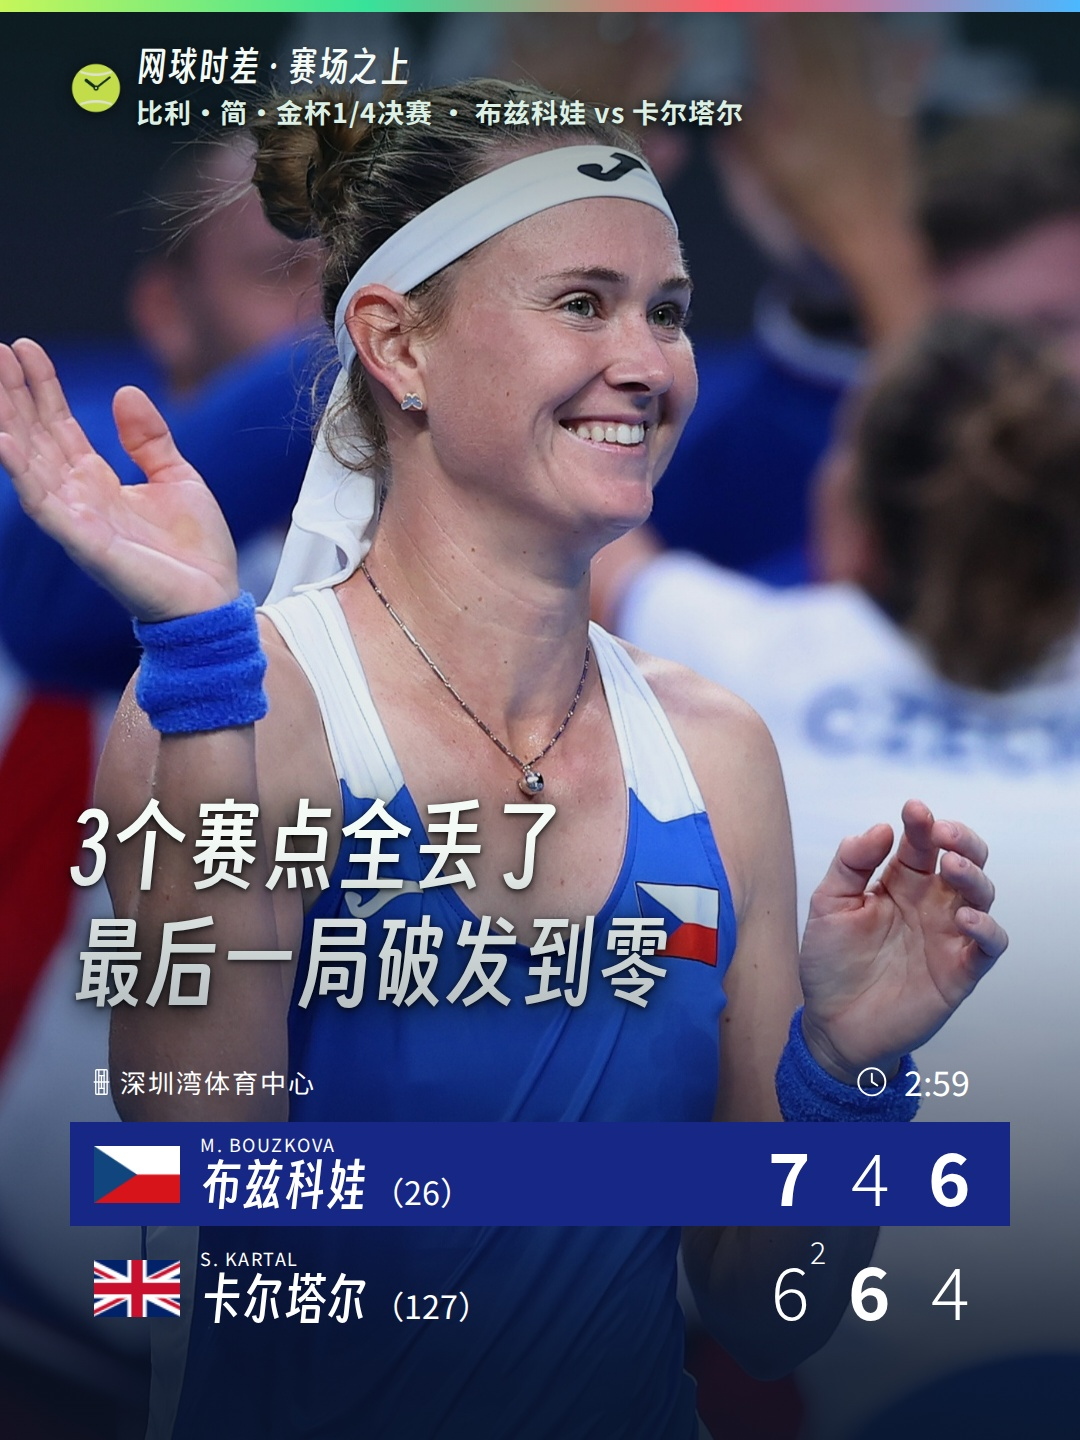
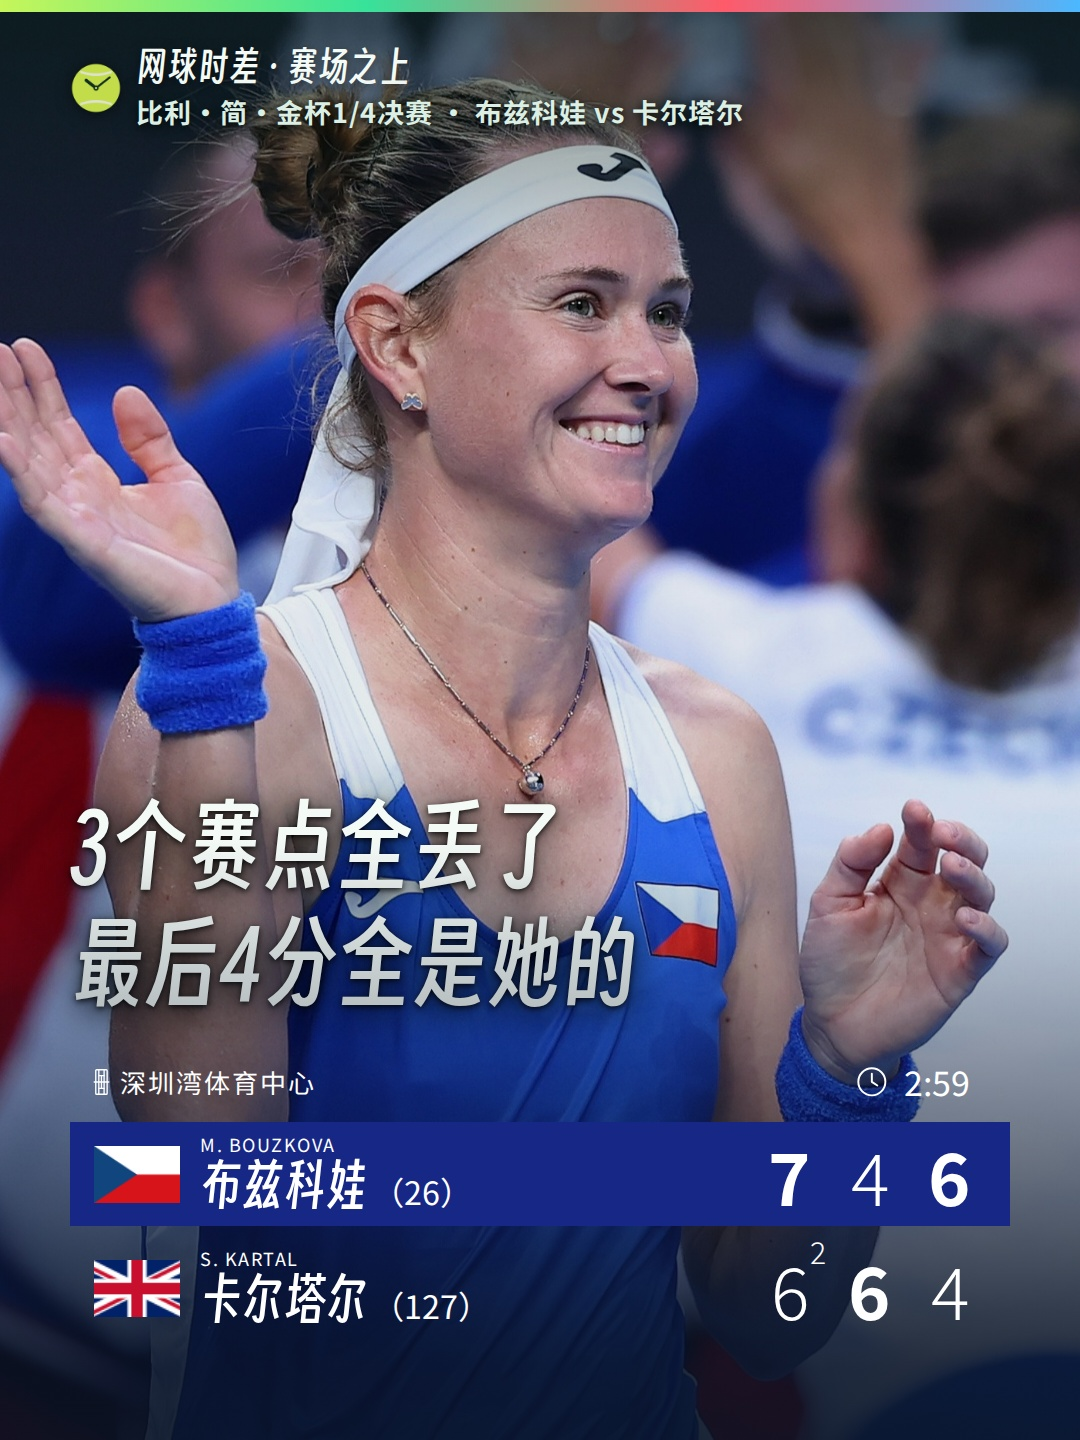
reel: 钩子第二行换掉行话，并落定「重渲默认重推」 (#994)
1) 钩子：「最后一局破发到零」→「最后4分全是她的」

账号所有者直接问「最后一局破发到 0 是啥意思」。这是能拿到的最硬的判据——
「破发到零」是两个术语叠在一起（破发 ＋ love game），连这个号的所有者都要停下来
问一句，刷到的人只会划走。换成的说法里「4 分」谁都知道是什么、「全是她的」谁都
知道结果是什么，而且和第一行「3个赛点全丢了」的数字互相咬。

事实同一件：被追成 5-4 之后，卡尔塔尔的发球局她连拿 4 分结束比赛（第 ⑬ 段旁白
「十五比零、三十比零、四十比零，比赛结束」，官网原文 break Kartal to love），
那 4 分正好是全场最后 4 分。

CLAUDE.md 加了通用那条：钩子里不许出现要解释的术语。和「love game 不要字面直译」
「ACE 不写中文」不同——那两条管译法，这条管要不要用这个词。自查办法：念给不看
网球的人听，他要反问就重写。

2) 「不用问我，自己决定，一般都要重推」

CLAUDE.md 那一节原来写着「是口径选择，没有替账号所有者定」——他表态了，前半句
作废。重渲一条已发的片子默认重推，不问；同日撞上 pushed.json 那道闸就把标记删掉
再合并（本次就这么做的）。闸留着，它防的是无意重推。

3) 对手译名维持「卡尔塔尔」

两张译名表一致（players.py:336 ＋ player_names_top500.json rank 122），而
「卡塔尔」在仓库里全部 8 处都是国家或赛事。按表走，人名不手打。

4) Release tag 挂账重量了一次

render 是整份重写 render.json 的，上一轮加的 _release_tag_note 被这趟重渲冲掉，
判据当场逮到。Range: bytes=0-1 → 总长 64073292，tag 上是 output/2026-09-23/
那一份。这句「每重渲一趟就会被冲掉」写进注解本身了。

质检 0 项不合格（run 35760387665）；全量 3366 passed。

Claude-Session: https://claude.ai/code/session_01A9qFiUXeAU5dtPbc1W5A2e

Changed region(s): [[0.1833, 0.625, 0.6417, 0.7188]]

diff --git a/CLAUDE.md b/CLAUDE.md
@@ -732,6 +732,29 @@ CLAUDE.md，省下一次重查；那是它该待的地方。（`wawrinka-wildcar
 它给这场球一个影子。换完的钩子和第 ② 段旁白都撤掉了总分差，小红书正文只按关键分的
 口径提一句。
 
+#### ⭐⭐ 2026-09-22：**钩子里不许出现要解释的术语**——判据是账号所有者看不懂
+
+`bouzkova-kartal` 的第二行原来写的是「最后一局破发到零」，他直接问：
+「**最后一局破发到 0 是啥意思**」。
+
+**这是能拿到的最硬的判据。** 「破发到零」是两个术语叠在一起（破发 ＋ love game），
+而**连这个号的所有者都要停下来问一句，刷到的人只会划走**——封面那一屏的全部价值
+就是一眼读懂，读不懂等于这一屏没有。换成「**最后4分全是她的**」：「4 分」谁都知道
+是什么，「全是她的」谁都知道结果是什么，而且和第一行「3个赛点全丢了」的数字互相咬
+（3 个没兑现 ↔ 最后 4 分全拿），反转一眼看得出。
+
+| | |
+|---|---|
+| ❌ 钩子里 | 破发到零、love game、ACE、一发得分率、二发、抢七盘、决胜局 |
+| ✅ 换成 | 4 分全是她的 / 一分没给 / 连拿 4 分 |
+| ✅ 旁白里可以 | 有上下文、有时间铺垫，说完还能解释半句 |
+
+⚠ **和仓库里那两条同族的不一样**：「`love game` 不要字面直译」「ACE 不写中文」管的是
+**译法**（这个词该怎么写）；这条管的是**要不要用这个词**（27 个字位里根本没有解释它的空间）。
+
+⚠ **自查的办法就一句**：把钩子念给一个不看网球的人听，他要反问，就重写。
+别指望底下的比分板去补——那是给看懂了的人确认用的，不是给看不懂的人解释用的。
+
 #### ⭐⭐ 2026-08-31 收窄一层：钩子讲的过程要是**整场**的，不是某一个时刻
 #### ⭐⭐ 2026-09-19 第三层：**两行之间要有落差**——同一件事说两遍就是废话
 #### ⭐ 而**每行几个字**是量得出来的：solo 封面的钩子，每行 ≤ 10 个字符
@@ -852,10 +875,26 @@ CI 绿是**发布的闸**，不是**质检的替代**——成片该拉回来量
 「片子做完就合并、就推微信」那节记过）：**拿「今天」去拼一个本该按 slug 认领的路径**。
 那次的症状是找不到产物，这次的症状是重复推送——**一个报错，一个不报错**。
 
-⚠ **要不要改成按 slug 认领，是口径选择，没有替账号所有者定**：跨天重渲往往正是
-因为上一版有错（这次就是——旧版讲反了一个事实），那么把改对的版本再推一次是对的；
-可「一条片子只发一条消息」同样说得通。**在他表态之前，跨天重渲一条已发的片子，
-就要预期它会重推**——写进回复里，别再像这次一样反着说。
+### ⭐⭐ 2026-09-22 他表态了：**重渲之后默认就是重推，而且这件事不要问**
+
+账号所有者的原话：「**这些都不用问我。你自己决定，一般都要重推**」。
+
+这句话同时关掉两个东西——上面那个悬着的口径，和「要不要重推」这一问：
+
+| | |
+|---|---|
+| **重渲一条已发的片子** | **默认重推**。不问，合并就走 |
+| 跨天 / 同日 | **都一样**。同日撞上 `pushed.json` 那道闸时，**把它从仓库里删掉再合并**（让重推真的发生），不是拿它当「那就别推了」的理由 |
+| 什么时候才不推 | 他明说「这一条别推」，或者闸红了（质检不合格、成片探不到） |
+
+⚠ **「一般」不是「随便」**：重渲的前提照旧是 `check_reel_landed` 0 项不合格 ＋ 全量绿
+＋ 成片抽帧看过。这条免掉的是**问一句**，不是免掉那道验证——和本文件「片子做完就合并、
+就推微信」那节一个道理。
+
+⚠ 原来这一节写着「要不要改成按 slug 认领，是口径选择，没有替账号所有者定」，
+并要求「在他表态之前就要预期它会重推」。**他表态了，所以前半句作废**；
+`pushed.json` 那道闸仍然留着（它防的是**无意**重推，比如手动跑错一次 `mode=push`），
+只是现在「有意重推」是默认动作，删掉标记就行。
 
 
 账号所有者 2026-08-05，两句话隔了一小时，**后一句改掉了前一句**：
